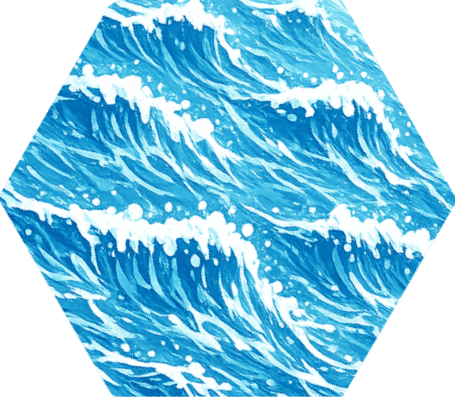
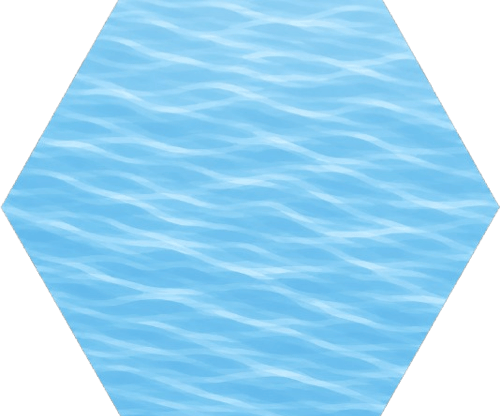
new terrain materials

diff --git a/scripts/generate-terrain-materials.js b/scripts/generate-terrain-materials.js
@@ -1,0 +1,246 @@
+"use strict";
+
+const fs = require("fs");
+const path = require("path");
+const zlib = require("zlib");
+
+const OUT_DIR = path.join(__dirname, "..", "public", "assets", "images", "terrain", "materials");
+const SIZE = 512;
+const PREVIEW_TILES = 3;
+
+const MATERIALS = [
+    { name: "grass", renderer: renderGrass },
+    { name: "sand", renderer: renderSand },
+    { name: "water", renderer: renderWater }
+];
+
+function clamp(value, min, max) {
+    return Math.max(min, Math.min(max, value));
+}
+
+function lerp(a, b, t) {
+    return a + (b - a) * t;
+}
+
+function smoothstep(t) {
+    return t * t * (3 - 2 * t);
+}
+
+function hash2(x, y, seed) {
+    let h = (Math.imul(x | 0, 374761393) + Math.imul(y | 0, 668265263) + Math.imul(seed | 0, 1442695041)) | 0;
+    h = Math.imul(h ^ (h >>> 13), 1274126177);
+    h = (h ^ (h >>> 16)) >>> 0;
+    return h / 4294967295;
+}
+
+function periodicValueNoise(x, y, period, seed) {
+    const px = Math.max(1, Math.floor(period));
+    const py = px;
+    const fx = ((x % px) + px) % px;
+    const fy = ((y % py) + py) % py;
+    const x0 = Math.floor(fx);
+    const y0 = Math.floor(fy);
+    const x1 = (x0 + 1) % px;
+    const y1 = (y0 + 1) % py;
+    const tx = smoothstep(fx - x0);
+    const ty = smoothstep(fy - y0);
+    const a = hash2(x0, y0, seed);
+    const b = hash2(x1, y0, seed);
+    const c = hash2(x0, y1, seed);
+    const d = hash2(x1, y1, seed);
+    return lerp(lerp(a, b, tx), lerp(c, d, tx), ty);
+}
+
+function octaveNoise(u, v, basePeriod, seed, octaves = 4, lacunarity = 2, gain = 0.5) {
+    let sum = 0;
+    let amp = 1;
+    let ampSum = 0;
+    for (let i = 0; i < octaves; i++) {
+        const period = Math.max(2, Math.round(basePeriod * Math.pow(lacunarity, i)));
+        sum += periodicValueNoise(u * period, v * period, period, seed + i * 1013) * amp;
+        ampSum += amp;
+        amp *= gain;
+    }
+    return ampSum > 0 ? sum / ampSum : 0;
+}
+
+function channel(value) {
+    return clamp(Math.round(value), 0, 255);
+}
+
+function rgba(r, g, b, a = 255) {
+    return [channel(r), channel(g), channel(b), channel(a)];
+}
+
+function mixColor(a, b, t) {
+    return [
+        lerp(a[0], b[0], t),
+        lerp(a[1], b[1], t),
+        lerp(a[2], b[2], t),
+        lerp(a[3] === undefined ? 255 : a[3], b[3] === undefined ? 255 : b[3], t)
+    ];
+}
+
+function renderSand(u, v) {
+    const broad = octaveNoise(u, v, 5, 4001, 4, 2, 0.56);
+    const grain = octaveNoise(u, v, 82, 4119, 3, 2, 0.48);
+    const speckle = hash2(Math.floor(u * SIZE), Math.floor(v * SIZE), 4319);
+    const rippleA = Math.sin(Math.PI * 2 * (u * 5 + v * 1.5 + 0.05 * octaveNoise(u, v, 8, 4561)));
+    const rippleB = Math.sin(Math.PI * 2 * (u * 2 - v * 4 + 0.06 * octaveNoise(u, v, 10, 4591)));
+    const ripple = (rippleA * 0.7 + rippleB * 0.3) * 0.5 + 0.5;
+    let shade = (broad - 0.5) * 26 + (grain - 0.5) * 18 + (ripple - 0.5) * 11;
+    if (speckle > 0.988) shade += 24;
+    else if (speckle < 0.012) shade -= 20;
+    const base = [187, 166, 92, 255];
+    return rgba(base[0] + shade, base[1] + shade * 0.82, base[2] + shade * 0.42, 255);
+}
+
+function renderWater(u, v) {
+    const depth = octaveNoise(u, v, 4, 8001, 4, 2, 0.58);
+    const distortion = (octaveNoise(u, v, 12, 8017, 3, 2, 0.5) - 0.5) * 0.08;
+    const wave1 = Math.sin(Math.PI * 2 * (u * 7 + v * 1 + distortion));
+    const wave2 = Math.sin(Math.PI * 2 * (u * 3 - v * 6 + distortion * 1.3));
+    const wave3 = Math.sin(Math.PI * 2 * (u * 13 + v * 5 + distortion * 0.6));
+    const waves = wave1 * 0.48 + wave2 * 0.34 + wave3 * 0.18;
+    const foam = Math.max(0, waves - 0.78);
+    const base = mixColor([35, 132, 176, 255], [97, 201, 225, 255], depth);
+    const shimmer = Math.max(0, Math.sin(Math.PI * 2 * (u * 18 + v * 2 + distortion)) - 0.72);
+    return rgba(
+        base[0] + waves * 12 + foam * 190 + shimmer * 85,
+        base[1] + waves * 18 + foam * 170 + shimmer * 95,
+        base[2] + waves * 23 + foam * 145 + shimmer * 70,
+        255
+    );
+}
+
+function renderGrass(u, v) {
+    const broad = octaveNoise(u, v, 6, 1001, 4, 2, 0.55);
+    const fine = octaveNoise(u, v, 48, 1103, 3, 2, 0.48);
+    const blade = Math.sin(Math.PI * 2 * (u * 19 + v * 9 + 0.08 * octaveNoise(u, v, 9, 1217)));
+    const fleck = hash2(Math.floor(u * SIZE), Math.floor(v * SIZE), 1301);
+    let shade = (broad - 0.5) * 38 + (fine - 0.5) * 22 + blade * 5;
+    if (fleck > 0.992) shade += 26;
+    const base = [39, 113, 31, 255];
+    return rgba(base[0] + shade * 0.48, base[1] + shade, base[2] + shade * 0.38, 255);
+}
+
+function makeImage(width, height, renderer) {
+    const data = Buffer.alloc(width * height * 4);
+    for (let y = 0; y < height; y++) {
+        const v = y === height - 1 ? 0 : y / height;
+        for (let x = 0; x < width; x++) {
+            const u = x === width - 1 ? 0 : x / width;
+            const [r, g, b, a] = renderer(u, v, x, y);
+            const index = (y * width + x) * 4;
+            data[index] = r;
+            data[index + 1] = g;
+            data[index + 2] = b;
+            data[index + 3] = a;
+        }
+    }
+    return { width, height, data };
+}
+
+function makePreview(source, tiles) {
+    const width = source.width * tiles;
+    const height = source.height * tiles;
+    const data = Buffer.alloc(width * height * 4);
+    for (let y = 0; y < height; y++) {
+        for (let x = 0; x < width; x++) {
+            const srcX = x % source.width;
+            const srcY = y % source.height;
+            const srcIndex = (srcY * source.width + srcX) * 4;
+            const dstIndex = (y * width + x) * 4;
+            data[dstIndex] = source.data[srcIndex];
+            data[dstIndex + 1] = source.data[srcIndex + 1];
+            data[dstIndex + 2] = source.data[srcIndex + 2];
+            data[dstIndex + 3] = source.data[srcIndex + 3];
+        }
+    }
+    return { width, height, data };
+}
+
+function assertSeamless(image, label) {
+    const maxDelta = 3;
+    for (let y = 0; y < image.height; y++) {
+        const left = (y * image.width) * 4;
+        const right = (y * image.width + image.width - 1) * 4;
+        for (let c = 0; c < 4; c++) {
+            if (Math.abs(image.data[left + c] - image.data[right + c]) > maxDelta) {
+                throw new Error(`${label} failed horizontal seam validation at row ${y}`);
+            }
+        }
+    }
+    for (let x = 0; x < image.width; x++) {
+        const top = x * 4;
+        const bottom = ((image.height - 1) * image.width + x) * 4;
+        for (let c = 0; c < 4; c++) {
+            if (Math.abs(image.data[top + c] - image.data[bottom + c]) > maxDelta) {
+                throw new Error(`${label} failed vertical seam validation at column ${x}`);
+            }
+        }
+    }
+}
+
+function crc32(buffer) {
+    let crc = 0xffffffff;
+    for (let i = 0; i < buffer.length; i++) {
+        crc ^= buffer[i];
+        for (let b = 0; b < 8; b++) {
+            crc = (crc >>> 1) ^ (0xedb88320 & -(crc & 1));
+        }
+    }
+    return (crc ^ 0xffffffff) >>> 0;
+}
+
+function pngChunk(type, data) {
+    const typeBuffer = Buffer.from(type, "ascii");
+    const length = Buffer.alloc(4);
+    length.writeUInt32BE(data.length, 0);
+    const crc = Buffer.alloc(4);
+    crc.writeUInt32BE(crc32(Buffer.concat([typeBuffer, data])), 0);
+    return Buffer.concat([length, typeBuffer, data, crc]);
+}
+
+function encodePng(image) {
+    const header = Buffer.from([137, 80, 78, 71, 13, 10, 26, 10]);
+    const ihdr = Buffer.alloc(13);
+    ihdr.writeUInt32BE(image.width, 0);
+    ihdr.writeUInt32BE(image.height, 4);
+    ihdr[8] = 8;
+    ihdr[9] = 6;
+    ihdr[10] = 0;
+    ihdr[11] = 0;
+    ihdr[12] = 0;
+    const stride = image.width * 4;
+    const raw = Buffer.alloc((stride + 1) * image.height);
+    for (let y = 0; y < image.height; y++) {
+        const rowStart = y * (stride + 1);
+        raw[rowStart] = 0;
+        image.data.copy(raw, rowStart + 1, y * stride, (y + 1) * stride);
+    }
+    return Buffer.concat([
+        header,
+        pngChunk("IHDR", ihdr),
+        pngChunk("IDAT", zlib.deflateSync(raw, { level: 9 })),
+        pngChunk("IEND", Buffer.alloc(0))
+    ]);
+}
+
+function writeImage(filePath, image) {
+    fs.writeFileSync(filePath, encodePng(image));
+}
+
+function main() {
+    fs.mkdirSync(OUT_DIR, { recursive: true });
+    for (const material of MATERIALS) {
+        const image = makeImage(SIZE, SIZE, material.renderer);
+        assertSeamless(image, material.name);
+        const preview = makePreview(image, PREVIEW_TILES);
+        writeImage(path.join(OUT_DIR, `${material.name}.png`), image);
+        writeImage(path.join(OUT_DIR, `${material.name}-preview.png`), preview);
+        console.log(`wrote ${material.name}.png and ${material.name}-preview.png`);
+    }
+}
+
+main();